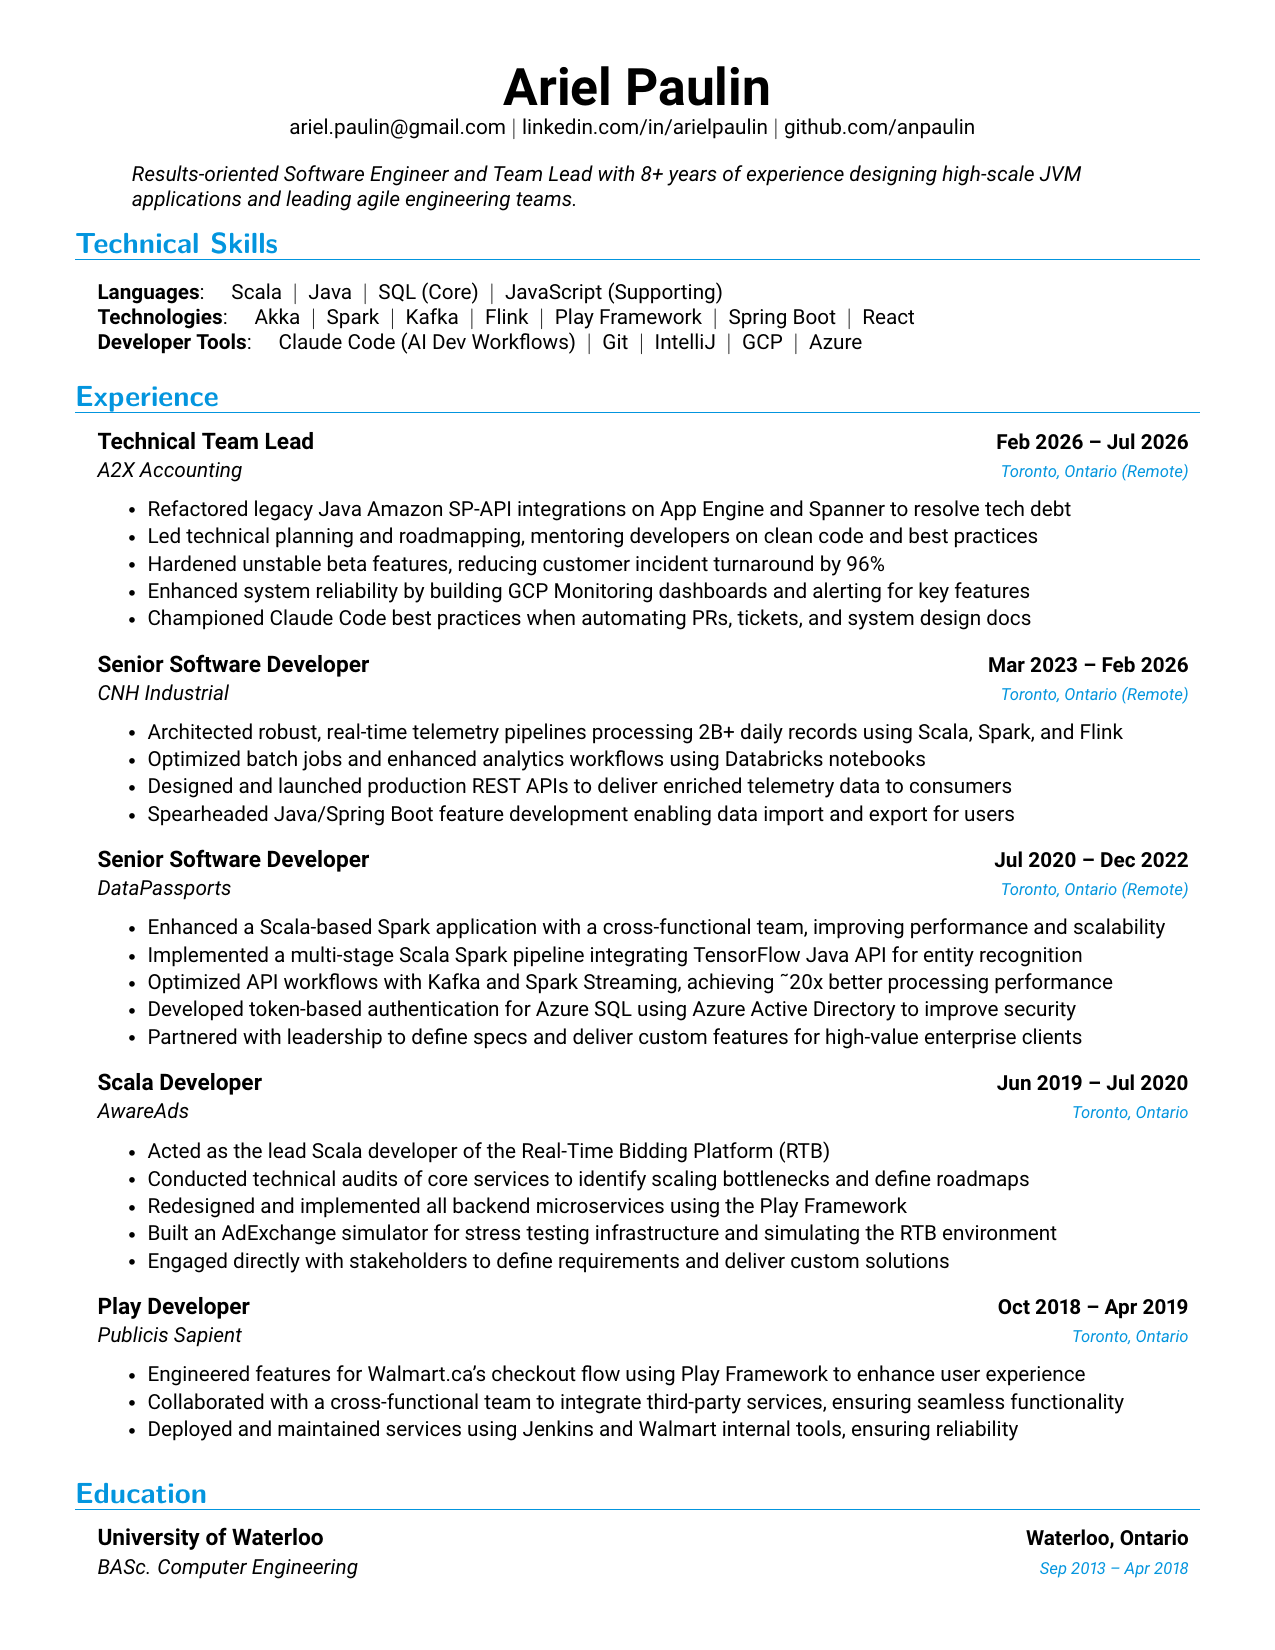
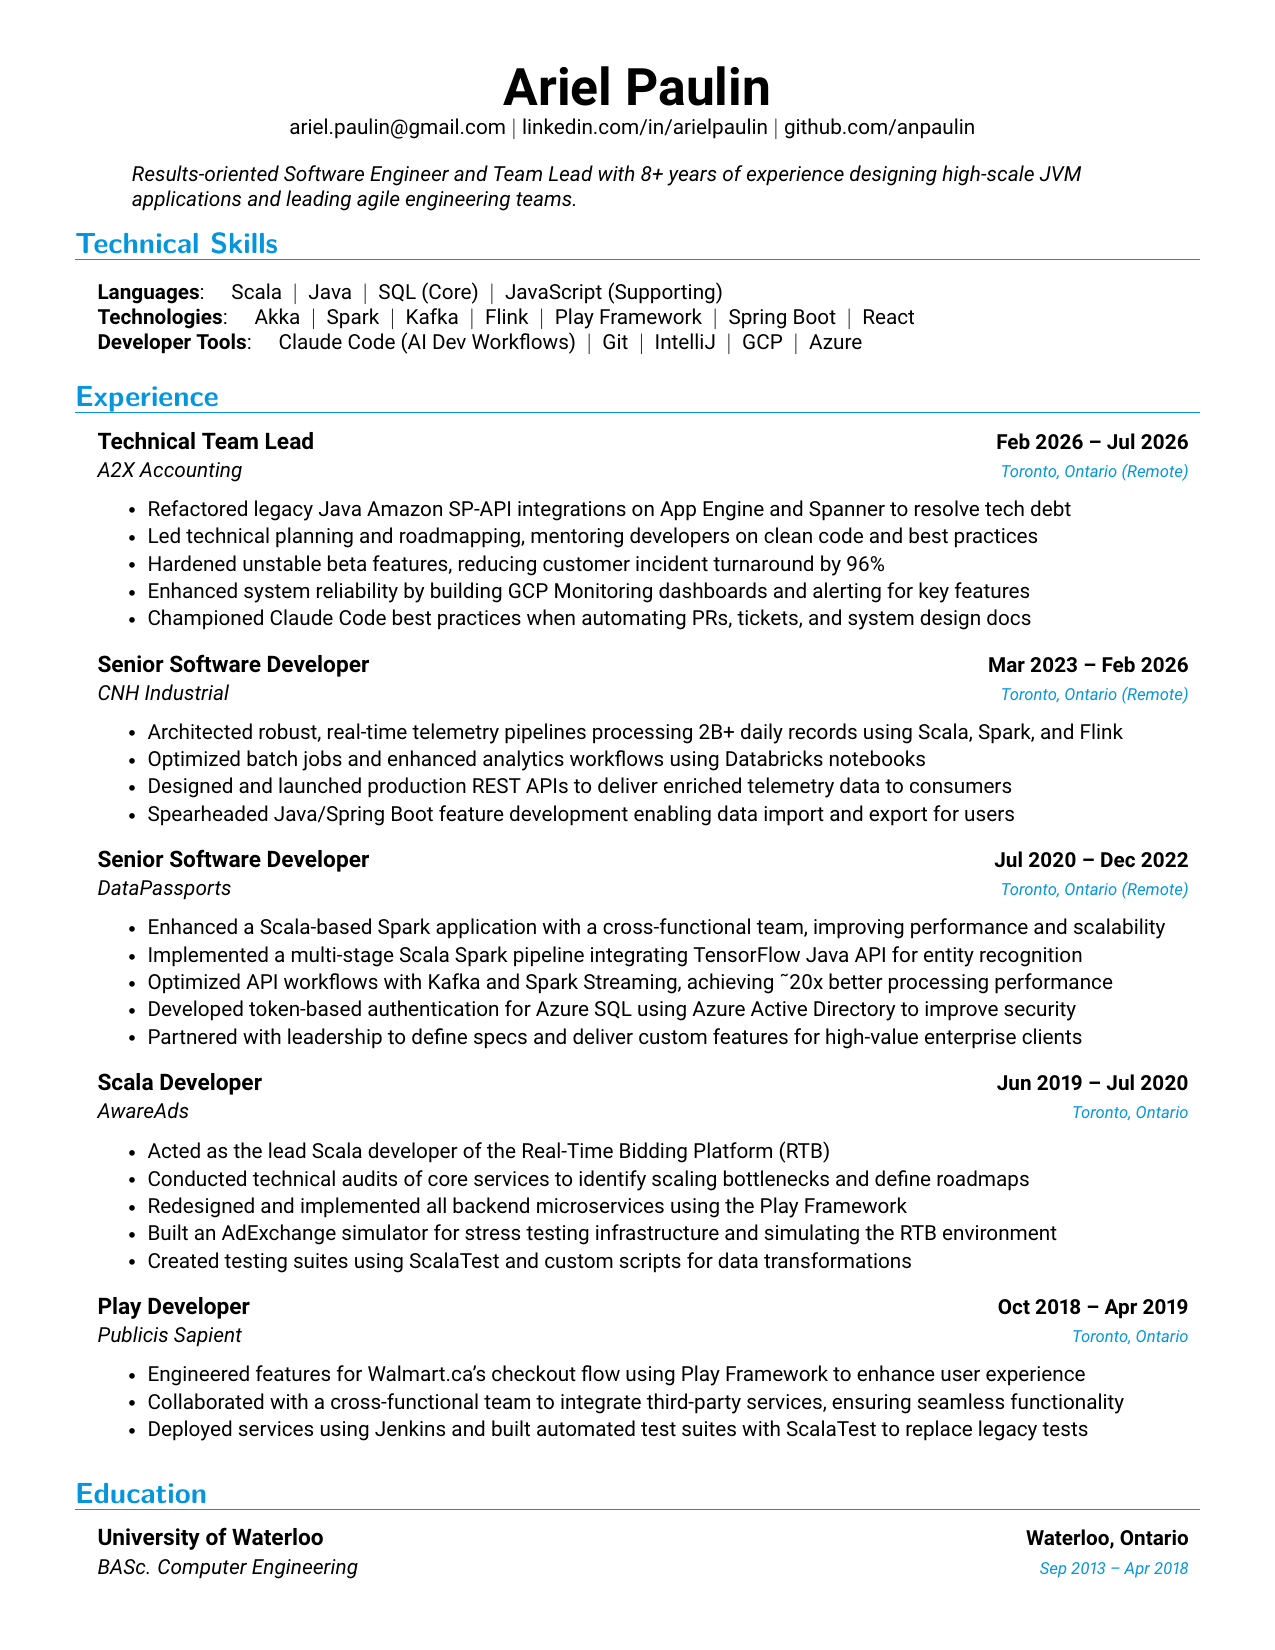
Split AppDirect into two separate terms, update AwareAds and Publicis Sapient descriptions, and verify page budget compilation

diff --git a/experience/awareads.tex b/experience/awareads.tex
@@ -6,5 +6,5 @@
     \resumeItem{Conducted technical audits of core services to identify scaling bottlenecks and define roadmaps}
     \resumeItem{Redesigned and implemented all backend microservices using the Play Framework}
     \resumeItem{Built an AdExchange simulator for stress testing infrastructure and simulating the RTB environment}
-    \resumeItem{Engaged directly with stakeholders to define requirements and deliver custom solutions}
+    \resumeItem{Created testing suites using ScalaTest and custom scripts for data transformations}
   \resumeItemListEnd

diff --git a/experience/sapient.tex b/experience/sapient.tex
@@ -4,5 +4,5 @@
   \resumeItemListStart
     \resumeItem{Engineered features for Walmart.ca’s checkout flow using Play Framework to enhance user experience}
     \resumeItem{Collaborated with a cross-functional team to integrate third-party services, ensuring seamless functionality}
-    \resumeItem{Deployed and maintained services using Jenkins and Walmart internal tools, ensuring reliability}
+    \resumeItem{Deployed services using Jenkins and built automated test suites with ScalaTest to replace legacy tests}
   \resumeItemListEnd

diff --git a/experience/appdirect_term2.tex b/experience/appdirect_term2.tex
@@ -1,0 +1,8 @@
+\resumeSubheading
+  {Software Developer}{Sep 2017 -- Dec 2017}
+  {AppDirect}{Montréal, Québec}
+  \resumeItemListStart
+    \resumeItem{Developed a new Scala-based microservice to handle communication with an external API}
+    \resumeItem{Built scalable, fault-tolerant functionality using Akka, Akka-HTTP, Scalaz, and Play Framework}
+    \resumeItem{Deployed the service into production incorporating ScalaTest suite and SaltStack using TeamCity}
+  \resumeItemListEnd

diff --git a/experience/appdirect_term1.tex b/experience/appdirect_term1.tex
@@ -1,0 +1,8 @@
+\resumeSubheading
+  {Software Developer}{Jan 2017 -- Apr 2017}
+  {AppDirect}{Montréal, Québec}
+  \resumeItemListStart
+    \resumeItem{Developed UI for the internal ticketing system using React, Redux, and Axios}
+    \resumeItem{Created new suites of automated testing using Jest and Enzyme}
+    \resumeItem{Integrated a Redis instance to store both temporary user data and asynchronous data}
+  \resumeItemListEnd

diff --git a/ariel_paulin_ats.tex b/ariel_paulin_ats.tex
@@ -132,7 +132,8 @@
     \input{experience/datapassports.tex}
     \input{experience/awareads.tex}
     \input{experience/sapient.tex}
-    \input{experience/appdirect.tex}
+    \input{experience/appdirect_term2.tex}
+    \input{experience/appdirect_term1.tex}
     \input{experience/sears.tex}
     \input{experience/nokia.tex}
     \input{experience/ibm.tex}
